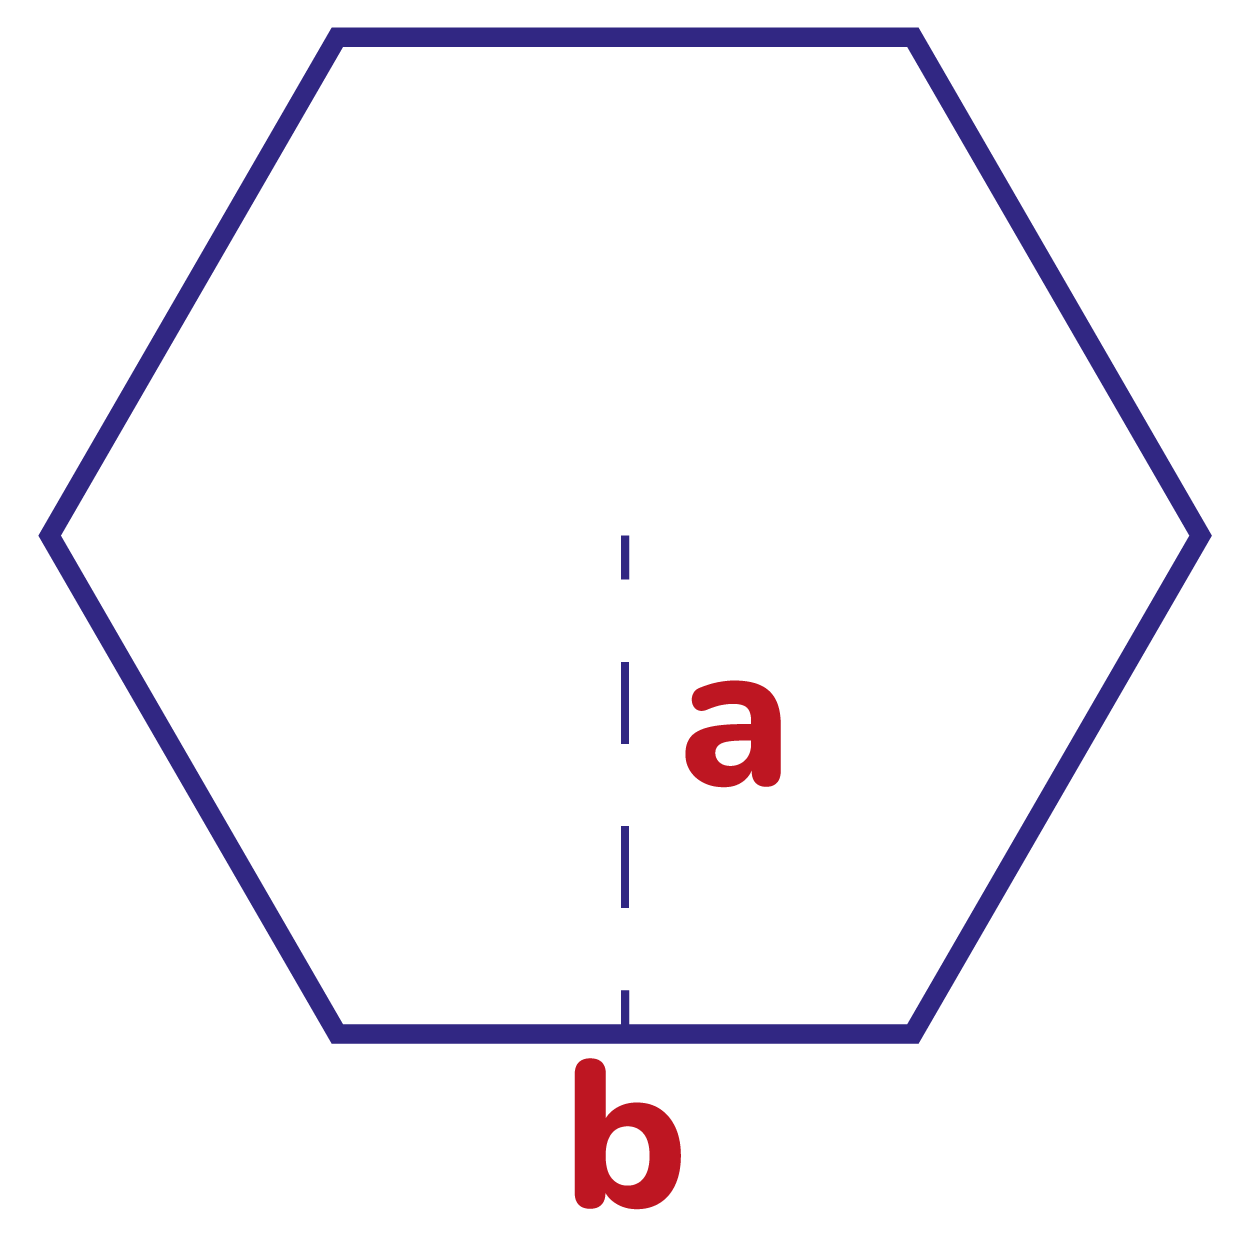
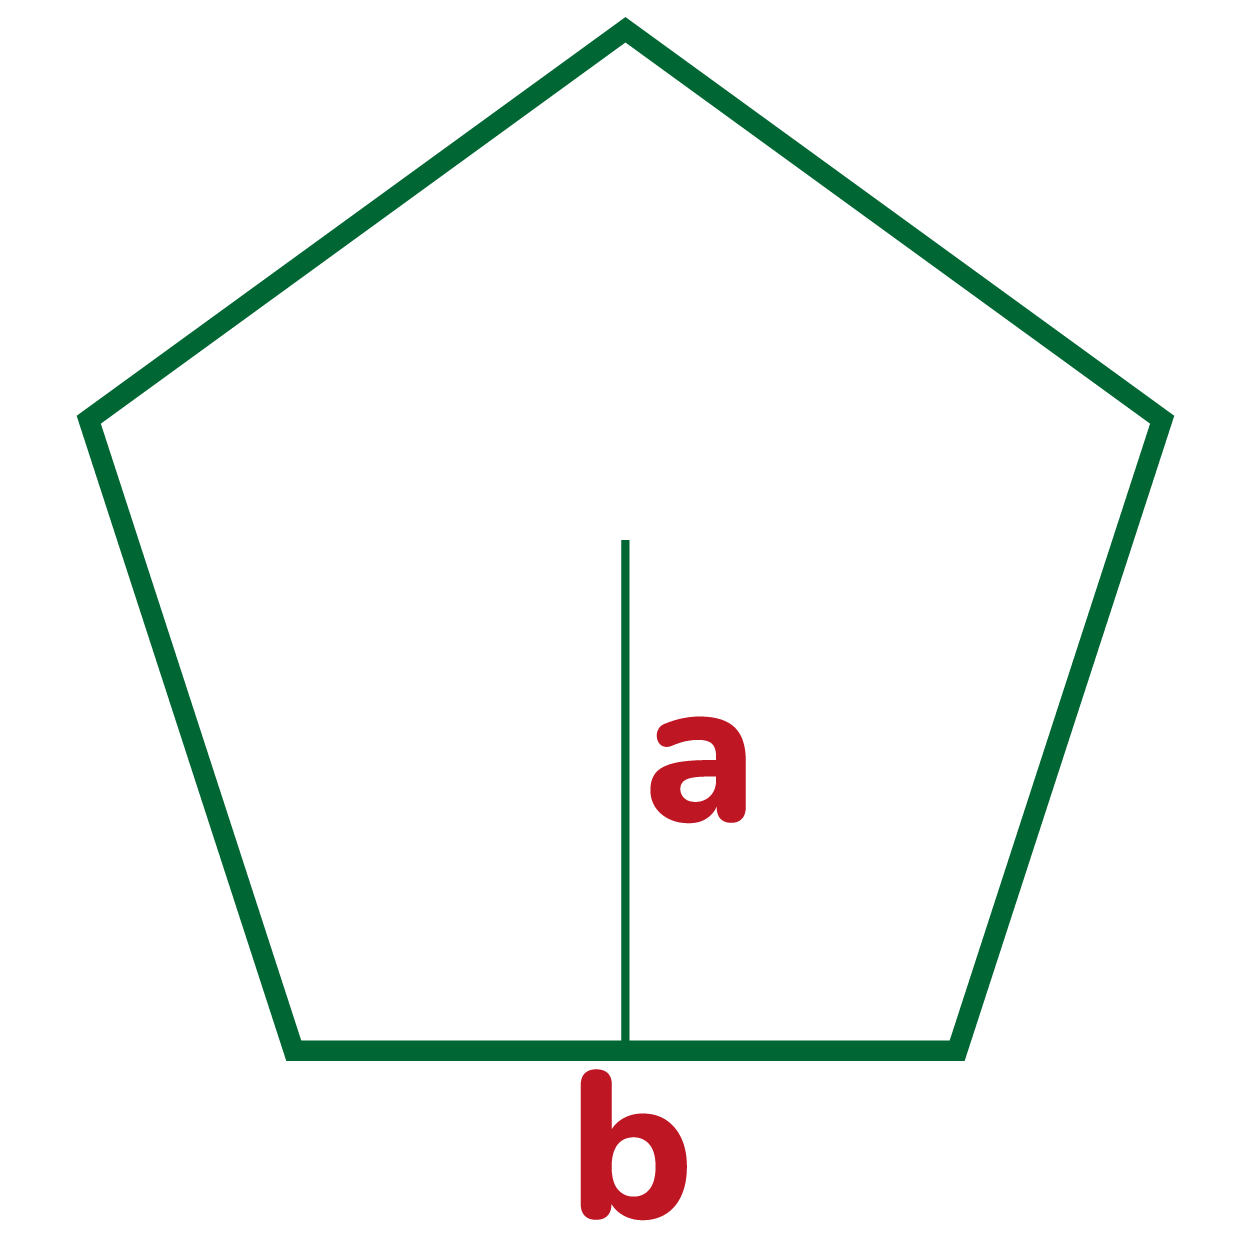
cambio de imagenes, pentagono y hexagono

Changed region(s): [[0.0312, 0.0, 0.9664, 0.9976]]

diff --git a/juegos_secundaria/inicio.html b/juegos_secundaria/inicio.html
@@ -584,7 +584,7 @@
                     "juego": "Muestreo",
                     "ruta": "AreaMatematicas/Muestreo/index.html",
                     "area": "M",
-                    "icono": "iconos/Muestreo.png"
+                    "icono": "iconos/muestreo.png"
                 },
                 {
                     "grado": "11",
